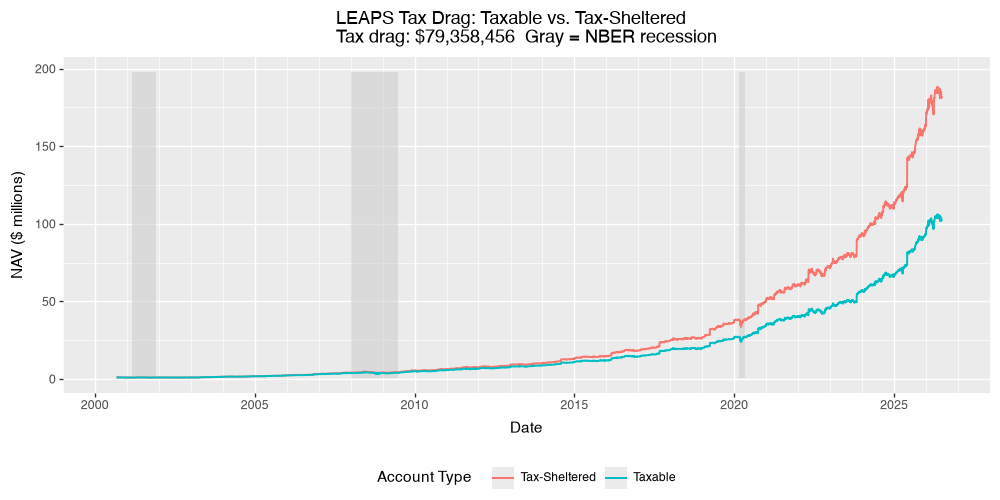
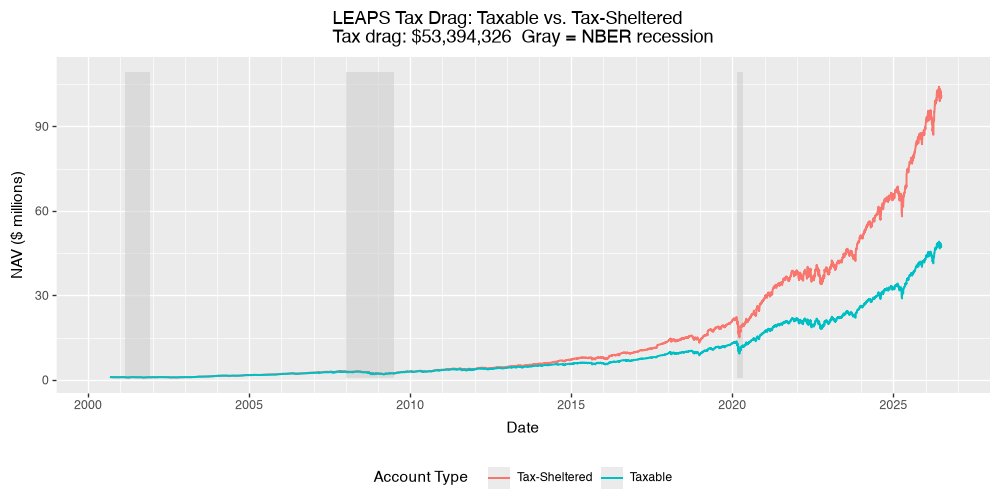
minor updates and file renaming... And add GTT_LEAPS example

diff --git a/examples/gtt_leaps.py b/examples/gtt_leaps.py
@@ -77,7 +77,7 @@ if __name__ == "__main__":
     n_total = len(gtt_signal.position_mask)
     print(f"  Signal: {n_defensive}/{n_total} defensive days ({100.0 * n_defensive / n_total:.1f}%)")
 
-    base_leaps_config = PortfolioConfig(
+    base_leaps_qtr = PortfolioConfig(
             target_weights=WEIGHTS,
             initial_nav=INITIAL_NAV,
             monthly_contribution=MONTHLY_CONTRIBUTION,
@@ -91,11 +91,25 @@ if __name__ == "__main__":
             gtt_config=None,
         )
 
-    gtt_leaps_config = PortfolioConfig(
+    base_leaps_drfit = PortfolioConfig(
+        target_weights=WEIGHTS,
+        initial_nav=INITIAL_NAV,
+        monthly_contribution=MONTHLY_CONTRIBUTION,
+        rebalance_rule=RebalanceRule.DRIFT,
+        weight_strategy=WeightStrategy.USER_SPECIFIED,
+        leaps_config=LeapsConfig(
+            iv=FLOOR_IV,
+            ltcg_rate=LTCG_RATE,
+            account_type=AccountType.TAX_SHELTERED,
+        ),
+        gtt_config=None,
+    )
+
+    gtt_leaps_drift = PortfolioConfig(
         target_weights=WEIGHTS,
         initial_nav=1_000_000.0,
         monthly_contribution=10_000.0,
-        rebalance_rule=RebalanceRule.QUARTERLY,
+        rebalance_rule=RebalanceRule.DRIFT,
         weight_strategy=WeightStrategy.USER_SPECIFIED,
         leaps_config=LeapsConfig(
             iv=FLOOR_IV,
@@ -108,26 +122,36 @@ if __name__ == "__main__":
         ),
     )
 
-    print("=== Running Buy-and-Hold Backtest ===")
-    base_result = run_backtest(return_data, price_data, base_leaps_config)
-
-    print("=== Running GTT Backtest ===")
-    gtt_result = run_backtest(return_data, price_data, gtt_leaps_config, gtt_signal=gtt_signal)
+    print("=== Running Backtests ===")
+    base_qtr_result = run_backtest(return_data, price_data, base_leaps_qtr)
+    base_drift_result = run_backtest(return_data, price_data, base_leaps_drfit)
+    gtt_result = run_backtest(return_data, price_data, gtt_leaps_drift, gtt_signal=gtt_signal)
 
     print("=== Building Volatility Model ===")
     vol_model = build_volatility_model(return_data)
 
     print("=== Building Performance Reports ===")
-    base_report = build_performance_report(base_result, price_data, return_data, vol_model)
+    base_qtr_report = build_performance_report(base_qtr_result, price_data, return_data, vol_model)
+    base_drift_report = build_performance_report(base_drift_result, price_data, return_data, vol_model)
     gtt_report = build_performance_report(gtt_result, price_data, return_data, vol_model)
 
     print("=== Performance Comparison ===")
-    print(compare_performance_table([("LEAPS", base_report), ("GTT LEAPS", gtt_report)]))
+    print(compare_performance_table(
+        [
+            ("LEAPS QTR", base_qtr_report),
+            ("LEAPS DRIFT", base_drift_report),
+            ("GTT LEAPS DRIFT", gtt_report)
+        ]
+    ))
 
     print("=== Saving NAV Growth Chart ===")
     output_path = Path("outputs/figures/gtt_leaps_comparison_nav.png")
     plot_nav_growth(
-        {"LEAPS": base_result, "GTT LEAPS": gtt_result},
+        {
+            "LEAPS QTR": base_qtr_result,
+            "LEAPS Drift": base_drift_result,
+            "GTT LEAPS Drift": gtt_result
+        },
         output_path=output_path,
         position_mask=gtt_signal.position_mask,
     )

diff --git a/examples/leaps_drift_rebalance.py b/examples/leaps_drift_rebalance.py
@@ -56,7 +56,7 @@ if __name__ == "__main__":
         target_weights=BASE_WEIGHTS,
         initial_nav=INITIAL_NAV,
         monthly_contribution=MONTHLY_CONTRIBUTION,
-        rebalance_rule=RebalanceRule.QUARTERLY,
+        rebalance_rule=RebalanceRule.DRIFT,
         weight_strategy=WeightStrategy.USER_SPECIFIED,
         leaps_config=LeapsConfig(
             iv=FLOOR_IV,
@@ -69,7 +69,7 @@ if __name__ == "__main__":
         target_weights=BASE_WEIGHTS,
         initial_nav=INITIAL_NAV,
         monthly_contribution=MONTHLY_CONTRIBUTION,
-        rebalance_rule=RebalanceRule.QUARTERLY,
+        rebalance_rule=RebalanceRule.DRIFT,
         weight_strategy=WeightStrategy.USER_SPECIFIED,
         leaps_config=LeapsConfig(
             iv=FLOOR_IV,

diff --git a/src/finance/figures.py b/src/finance/figures.py
@@ -164,6 +164,7 @@ def plot_nav_growth(
             data=data, mapping=p9.aes(x="date", y="nav_millions", color="portfolio"), size=0.8
         )
         + p9.scale_x_datetime(date_labels="%Y", date_minor_breaks="1 year")
+        + p9.scale_y_log10()
         + p9.labs(
             title=f"Portfolio NAV Growth\n{subtitle}",
             x="Date",
@@ -383,6 +384,7 @@ def plot_leaps_tax_drag(
             data=data, mapping=p9.aes(x="date", y="nav_millions", color="account"), size=0.8
         )
         + p9.scale_x_datetime(date_labels="%Y", date_minor_breaks="1 year")
+        + p9.scale_y_log10()
         + p9.labs(
             title=f"LEAPS Tax Drag: Taxable vs. Tax-Sheltered\n{drag_label}  {subtitle}",
             x="Date",

diff --git a/README.md b/README.md
@@ -96,11 +96,11 @@ uv run mypy src/               # type-check
 uv run examples/basic_backtest.py 2>&1 | tee basic_backtest.log
 
 # Examples:
-uv run examples/basic_backtest.py      # full backtest + performance table + NAV chart
-uv run examples/with_leaps.py          # LEAPS overlay, taxable vs. tax-sheltered
-uv run examples/volatility_report.py   # vol contribution table + forward vol forecast
-uv run examples/crisis_analysis.py     # GFC / COVID / 2022 per-period metrics
-uv run examples/basic_gtt.py           # Basic backtest, with the GTT signal and comparison
+uv run examples/basic_backtest.py         # full backtest + performance table + NAV chart
+uv run examples/leaps_drift_rebalance.py  # LEAPS, drift rebalancing, + taxable vs. tax-sheltered
+uv run examples/volatility_report.py      # vol contribution table + forward vol forecast
+uv run examples/crisis_analysis.py        # GFC / COVID / 2022 per-period metrics
+uv run examples/basic_gtt.py              # Basic backtest, with the GTT signal and comparison
 ```
 
 ## Growth and Trend Timing
